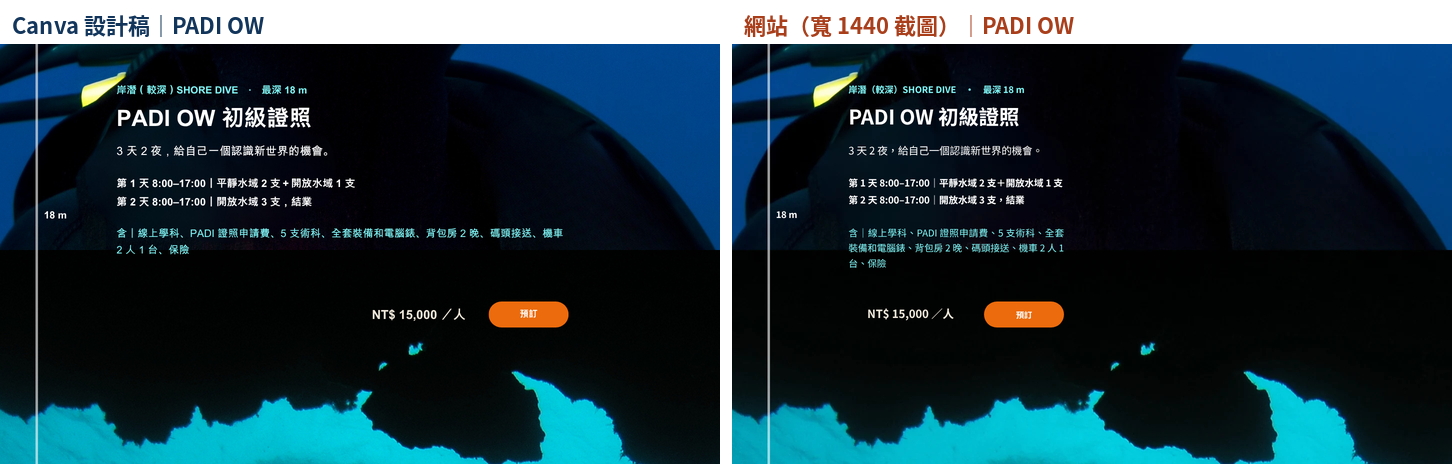
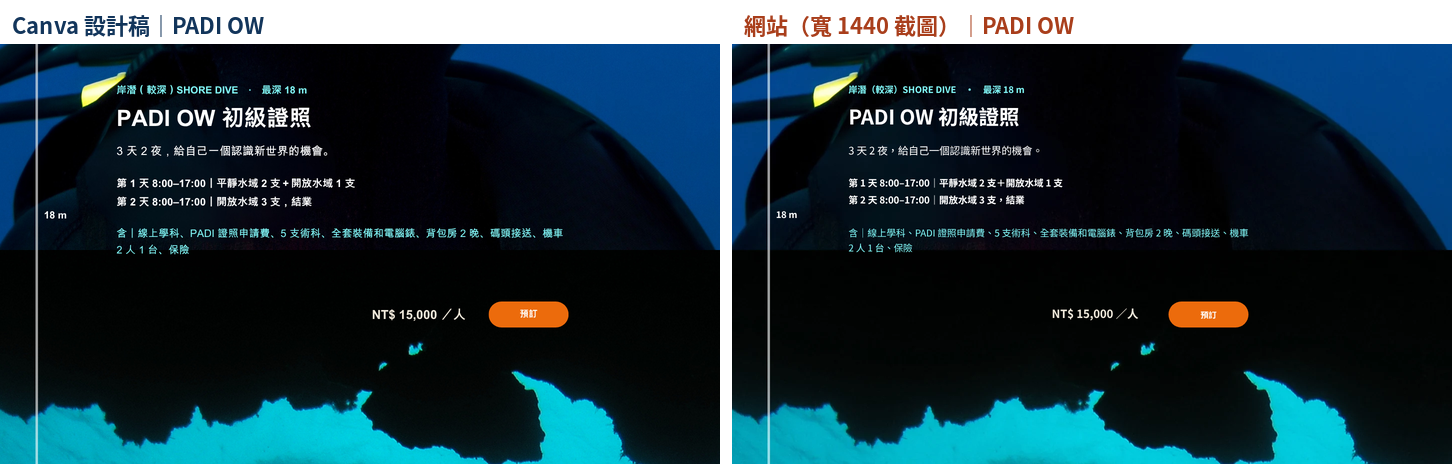
課程頁 OW／AOW 包含內容改回 Canva 的扁平兩行，按鈕右緣對齊；需求總表課程頁完成（Ambre 11/17 確認上線）
Claude-Session: https://claude.ai/code/session_01CnUJQacRPGhjQxybq71xBT

Changed region(s): [[0.5888, 0.6336, 0.8678, 0.7241], [0.5888, 0.4828, 0.8678, 0.5733]]

diff --git a/scripts/canvas_pages.py b/scripts/canvas_pages.py
@@ -13,11 +13,9 @@ PAGES = {
         "title": "課程",
         "active": "/courses/",
         "textScale": 0.9,  # 11/17 Ambre：比照首頁，字級 ×0.9（位置、框寬不變）
-        # 11/17 Ambre 圈選：說明文字收在框內＝「含｜…」那段縮到上面幾行的實際寬度；預訂按鈕右緣對齊這一欄（比照首頁）
-        "columns": {
-            "ow": (["LB2tB6sLbqQbC45c", "LBzV9DgV1JDjrfN4", "LByjSBHGQnvRDkNy", "LBFvdLGKf7gHwBnv"], ["LBN9YVvqBxNhtfDy"]),
-            "aow": (["LBTdZW10hJfmLY8V", "LBYZ3KqrDHls72KV", "LBdVRhkfppf511qs", "LBWGZjnCnG4pBy8Z"], ["LBljR0j6Hvqt5Ltv"]),
-        },
+        # 11/17 Ambre：OW、AOW「含｜…」那段不要縮在左邊（畫面不平均），維持 Canva 的寬度、扁平兩行，
+        #   換行跟 Canva 一樣（第一行到「機車」）；預訂按鈕右緣對齊這段的右緣、價格跟著移（全站規則：按鈕和字的最右邊對齊）
+        "columns": {"ow": (["LBN9YVvqBxNhtfDy"], []), "aow": (["LBljR0j6Hvqt5Ltv"], [])},
         "buttonAlign": {  # 按鈕群組 id → (欄, 一起移動的價格文字 id)
             "LBhhjwRx9fZF22NR": ("ow", "LB7wpznLPFr6yGkv"),
             "LBsFwHTtt6NbRR06": ("aow", "LBsJdgwf1NsKMFsl"),
@@ -45,7 +43,8 @@ PAGES = {
         "overrides": {
             # 行距微調：用像素量測對齊 Canva（Canva 的行距比網頁略緊）
             # AOW 包含內容：拿掉「深潛改成 2 支船潛加收 NT$ 1,400」（11/17 Ambre：1,400 不在價目表，這句拿掉）
-            "LBljR0j6Hvqt5Ltv": {"text": "含｜線上學科、PADI 證照申請費、5 支術科、全套裝備和電腦錶、背包房 2 晚、碼頭接送、機車 2 人 1 台、保險"},
+            "LBN9YVvqBxNhtfDy": {"w": 800},
+            "LBljR0j6Hvqt5Ltv": {"w": 800, "text": "含｜線上學科、PADI 證照申請費、5 支術科、全套裝備和電腦錶、背包房 2 晚、碼頭接送、機車 2 人 1 台、保險"},
             "LB7wpznLPFr6yGkv": {"priceId": "ow", "text": "NT$ {price} ／人"},
             "LBsJdgwf1NsKMFsl": {"priceId": "aow", "text": "NT$ {price} ／人"},
             "LBrDZT1G6gSqkWdg": {"priceId": "ow-aow", "text": "NT$ {price} ／人"},

diff --git a/docs/課程頁進度.md b/docs/課程頁進度.md
@@ -41,3 +41,4 @@
 - 11/16（排程）：開場、PADI OW、AOW、其他方案、下水前請先看、頁尾 六段完成（比對圖 docs/compare/courses/01–06），npm test 32 題一致。
 - 11/16（排程）：已傳比對圖給 Ambre（6 張，SendUserFile＋推播）；Project 狀態檔第 8 節已加一筆。等她逐段回覆，說 OK 才合併 main。
 - 11/17 Ambre 回饋：(1) 字級比照首頁縮小 (2) 字收在框內（圈 OW 那欄）(3) 價格一律以 Sheet「價目與計價總表（主檔）」為準 (4) LINE、IG 等全部頁面好了一起補。處理：先把 main（首頁字級 0.9、左右對齊、按鈕對齊）合併進 courses-redo（首頁截圖跟 main 逐像素相同）；課程頁字級 ×0.9、段落左右對齊；OW、AOW「含｜…」那段縮到上面幾行的實際寬度，預訂按鈕右緣對齊這一欄、價格跟著移（比照首頁）；Sheet 01_價目表 41 項逐項核對 prices.json 全部一致；AOW「深潛改 2 支船潛加收 NT$ 1,400」拿掉（Ambre 決定）。比對圖重做（docs/compare/courses/01–06）。
+- 11/17 16:10 Ambre 圈 OW「含｜…」：縮在左邊畫面不平均，要在中間扁平。改回 Canva 的換行（第一行到「機車」、寬 800），預訂按鈕右緣對齊這段右緣、價格跟著移。Ambre：改好直接上線 → 合併 main 上線。

diff --git a/docs/需求總表.md b/docs/需求總表.md
@@ -24,7 +24,7 @@
 | # | 頁面 | 網址 | 送審必備 | 狀態 |
 |---|---|---|---|---|
 | 1 | 首頁（沉浸式下潛） | `/` | | **完成（電腦版照 Canva 重做，11/17 Ambre 確認上線；手機版之後做）** |
-| 2 | 課程 | `/courses/` | ✅ 商品頁 | 待做 |
+| 2 | 課程 | `/courses/` | ✅ 商品頁 | **完成（電腦版照 Canva 做，字級 0.9、收進框內，11/17 Ambre 確認上線；手機版之後做）** |
 | 3 | 住宿 | `/stay/` | ✅ 商品頁 | 待做 |
 | 4 | 行程（3 天 2 夜套裝） | `/trips/` | ✅ 商品頁 | 待做 |
 | 5 | 關於與聯絡 | `/about/`（聯絡＝`/about/#contact`） | ✅ 公司資訊、客服 | 待做 |
